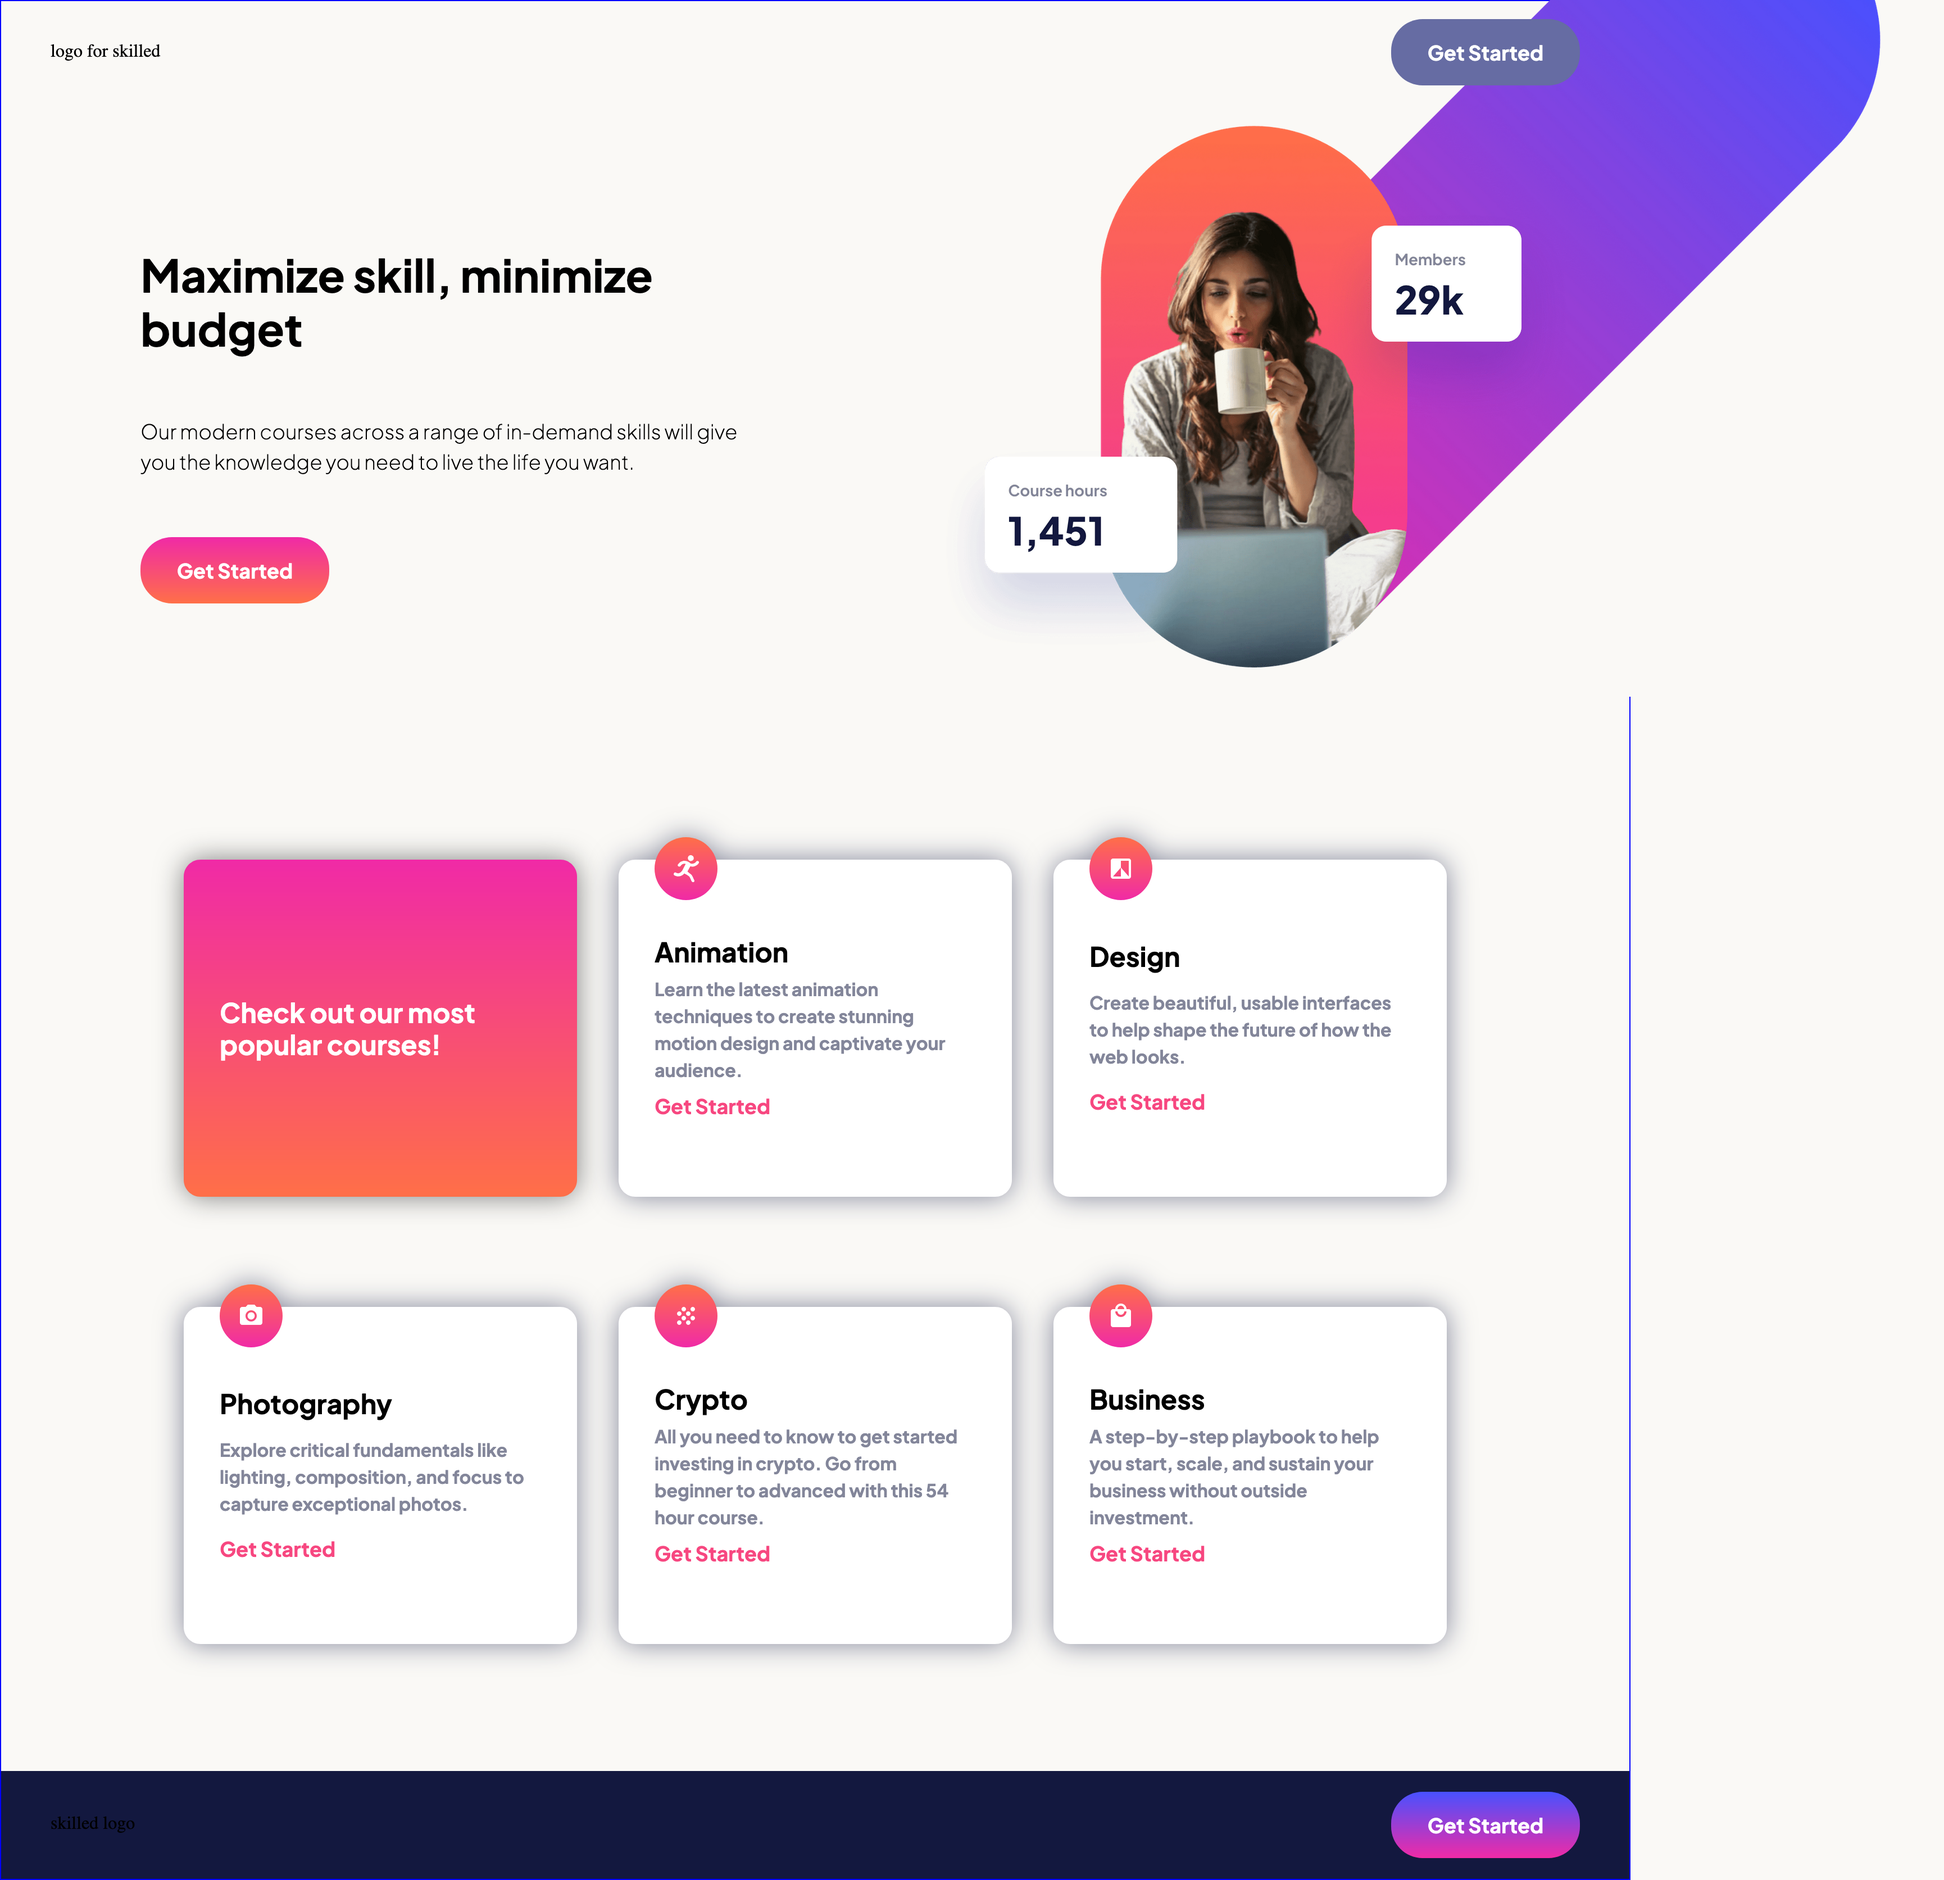
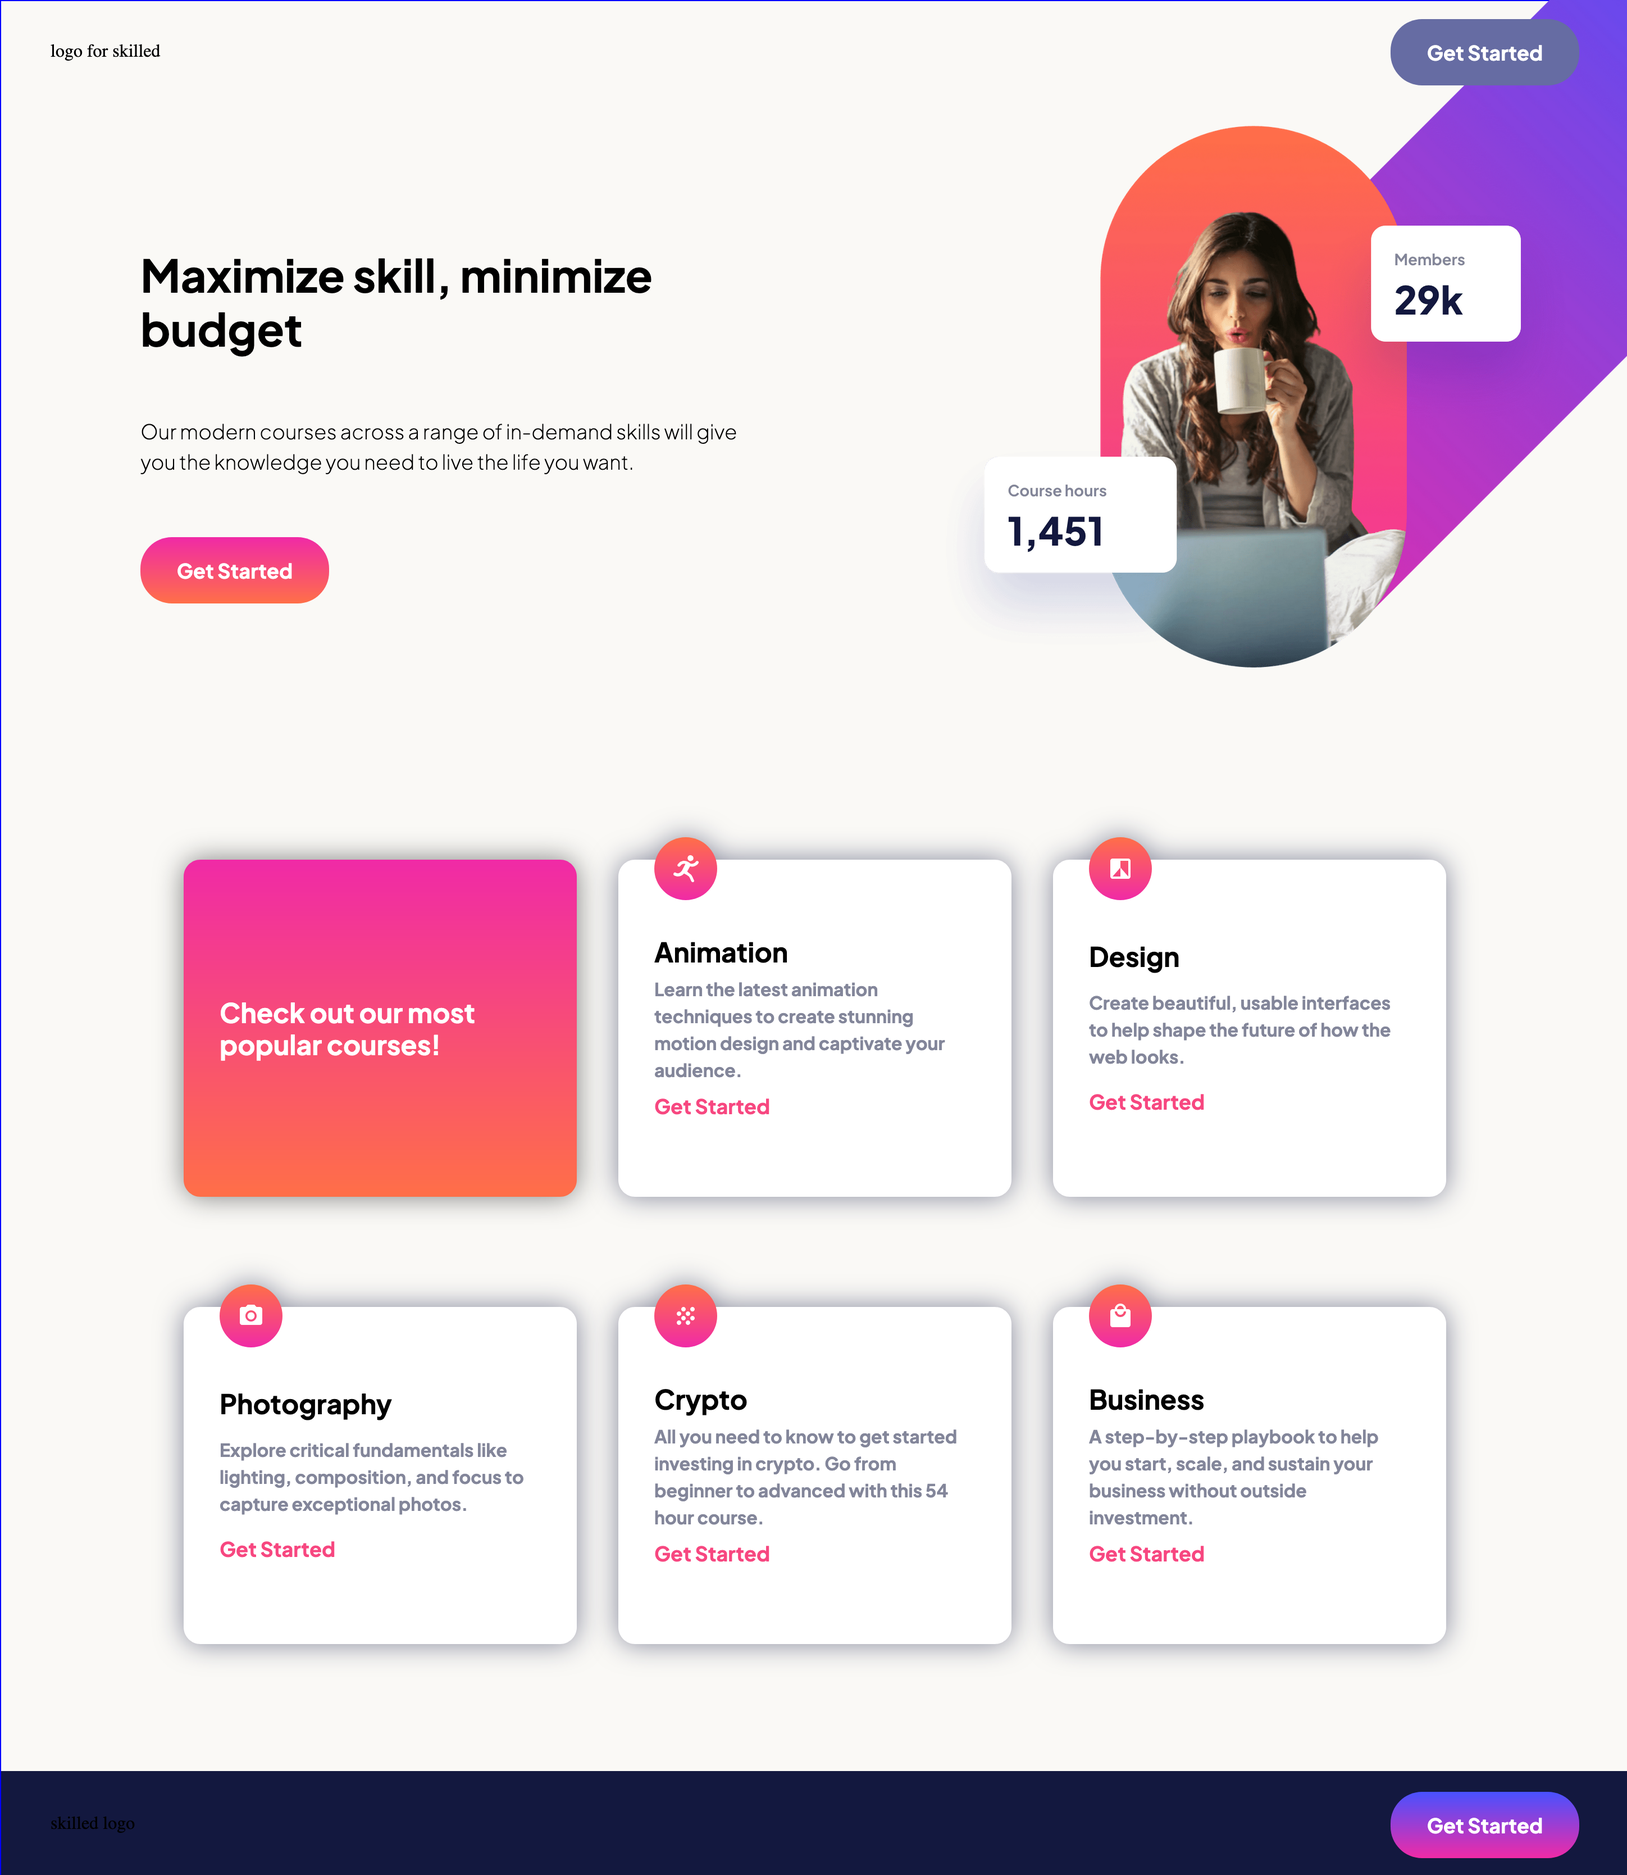
fixed screenshot

diff --git a/main.css b/main.css
@@ -211,9 +211,6 @@ footer img {
   height: 20px;
 }
 @media (min-width: 718px) {
-  body {
-    border: 1px tomato solid;
-  }
   body nav {
     padding: 24px 44px;
   }
@@ -251,9 +248,6 @@ footer img {
   }
 }
 @media (min-width: 1024px) {
-  body {
-    border: blue 1px solid;
-  }
   .hero {
     margin-left: 80px;
     height: 964px;

diff --git a/main.scss b/main.scss
@@ -133,7 +133,6 @@ footer {
 }
 @media (min-width: 718px) {
   body {
-    border: 1px tomato solid;
     nav {
       padding: 24px 44px;
     }
@@ -172,9 +171,6 @@ footer {
   }
 }
 @media (min-width: 1024px) {
-  body {
-    border: blue 1px solid;
-  }
   .hero {
     margin-left: 80px;
     height: 964px;
